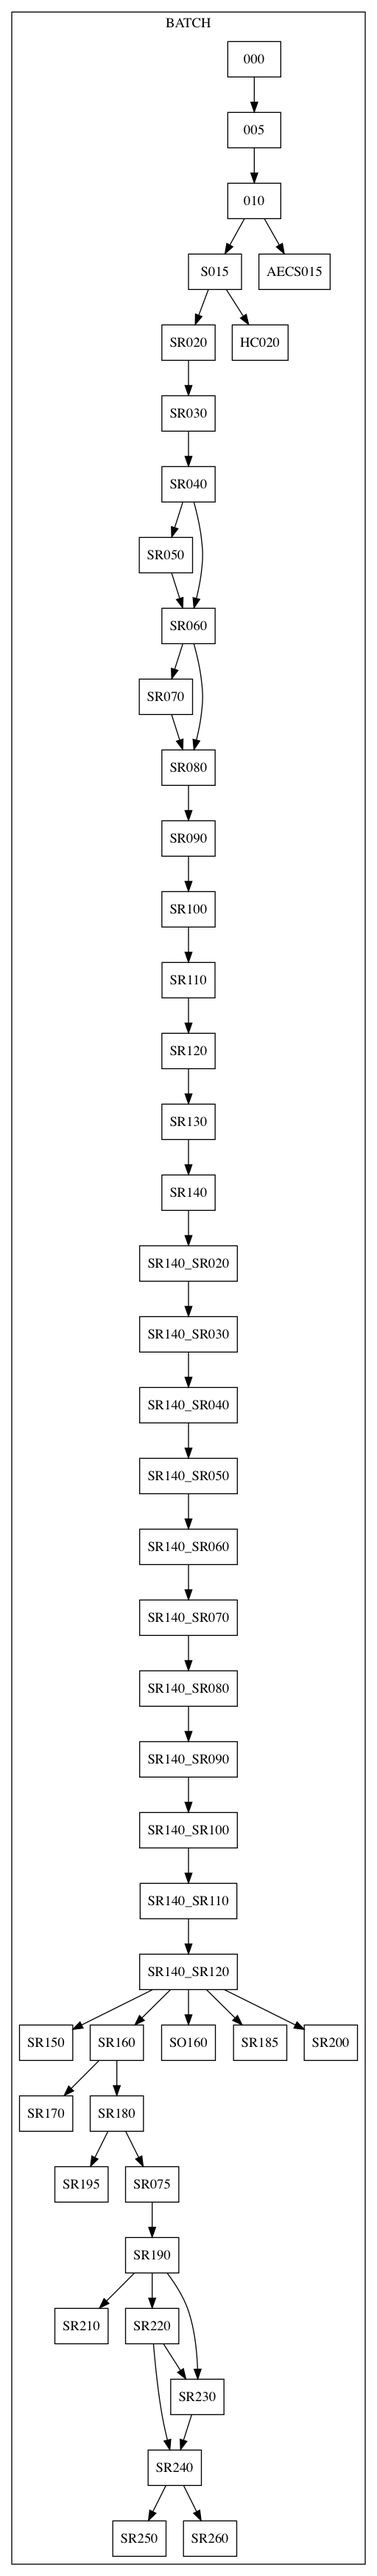
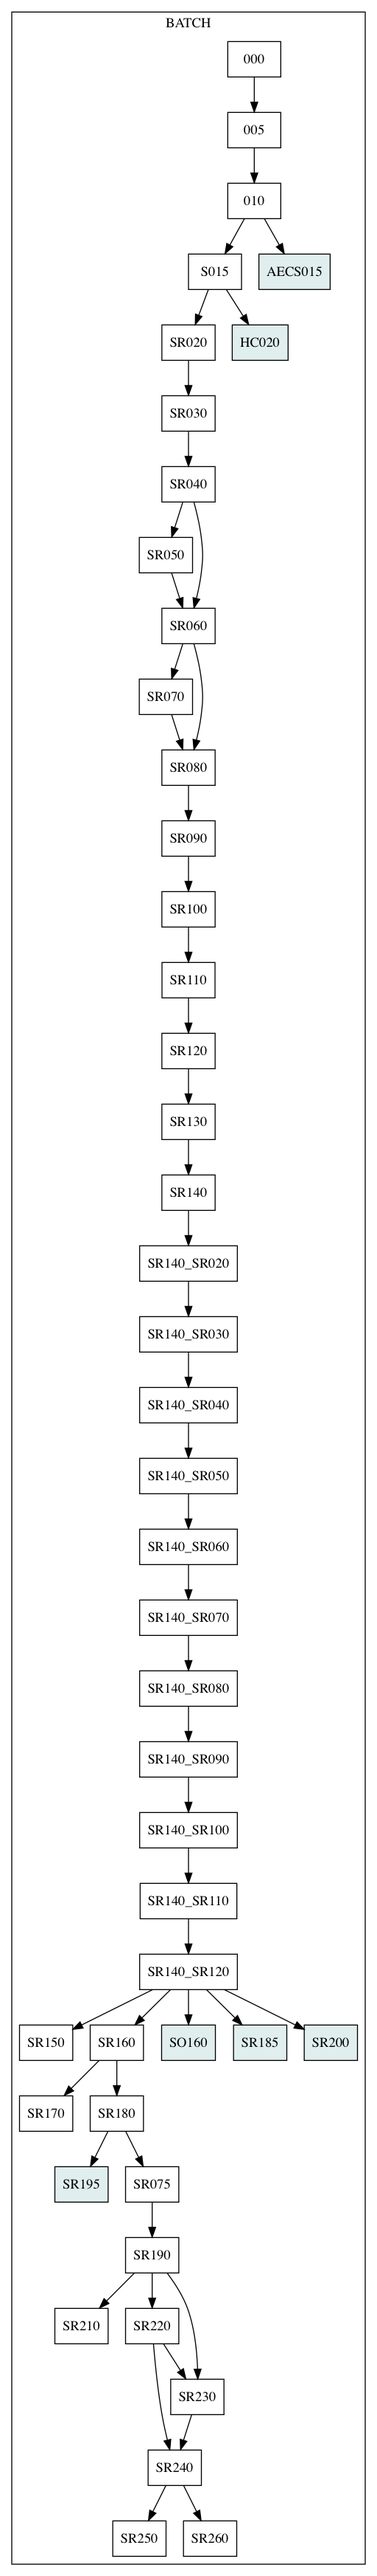
fix: Add color to non-batch nodes

diff --git a/src/main/java/utils/GenDoc_Dot.java b/src/main/java/utils/GenDoc_Dot.java
@@ -39,9 +39,11 @@ public class GenDoc_Dot { // extends PF_V5_Utils {
     // DOT specific parameters.
     // -------------------------------------------------------------
 
-    final Map<String, String> subgraphs = new HashMap<String, String>();
+    private final Map<String, String> subgraphs = new HashMap<String, String>();
     final Map<String, String> catgraphs = new HashMap<String, String>();
+    private final Set<String> procedure = new HashSet<>();
 
+    
     /**
      * Used for stand alone generation.
      * 
@@ -145,6 +147,7 @@ public class GenDoc_Dot { // extends PF_V5_Utils {
                     if (proc.equalsIgnoreCase(run)) {
                         JSONObject result = new JSONObject(json, TO_PROC);
                         rc.put(result);
+                        procedure.add(result.getString(H_BATCH).trim());
                     }
                 }
             }
@@ -224,6 +227,9 @@ public class GenDoc_Dot { // extends PF_V5_Utils {
 //            ss += T1 + name + " -> " + child + ";";
             ss += T1 + name + " -> " + getDisplayName(child) + ";";
             ss += newline;
+            if (!procedure.contains(child.trim()) ) {
+                ss += T1 + getDisplayName(child) + " [style=filled, fillcolor=azure2];" + newline;
+            }
         }
         subgraphs.put(proc, ss);
         return result;
